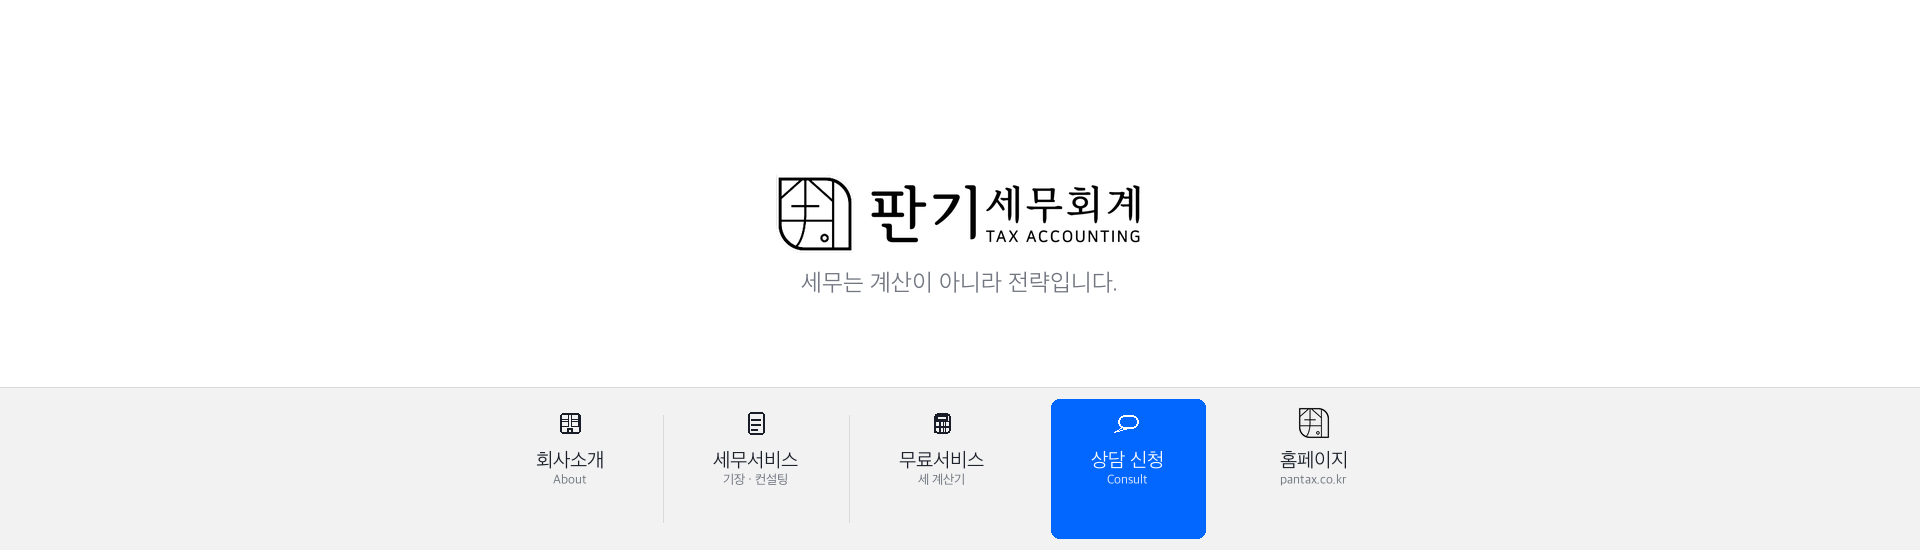
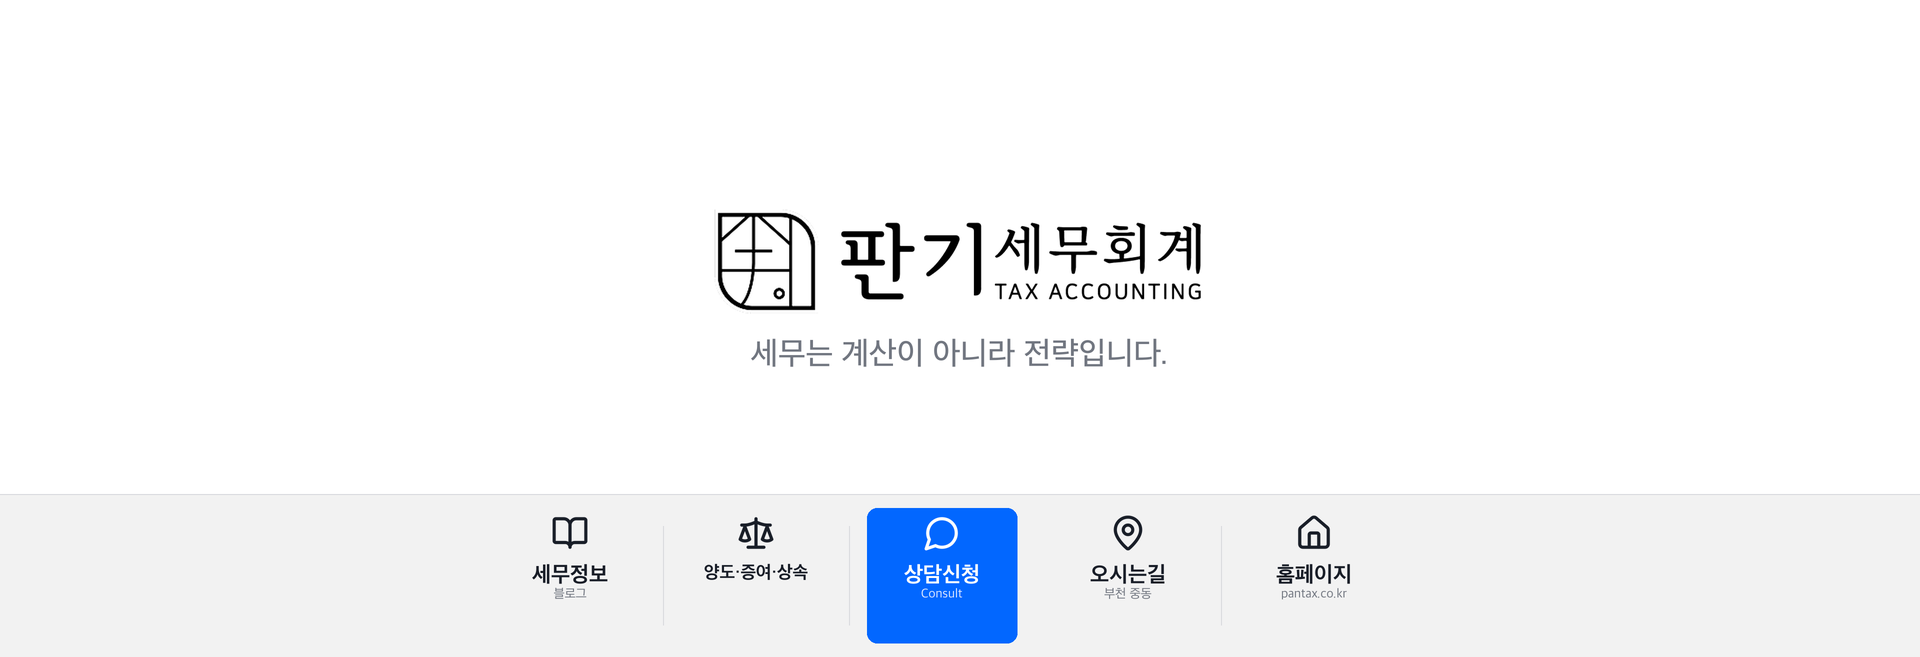
블로그 상단 로고 영역을 키우고, 버튼 다섯 칸을 다시 맞춥니다.

diff --git a/assets/blog/widgets.html b/assets/blog/widgets.html
@@ -1,31 +1,31 @@
-<!-- 레이아웃: 메뉴 → 1 2 3 4 5. 위젯 높이 550. 타이틀 없음. -->
+<!-- 레이아웃: 메뉴 → 1 2 3 4 5. 위젯 높이 657. 타이틀 없음. -->
 
-<!-- 1. 회사소개 -->
-<img src="https://pantax.co.kr/assets/blog/trans-550.png" width="170" height="550" border="0" usemap="#map" alt="회사소개" />
+<!-- 1. 세무정보 -->
+<img src="https://pantax.co.kr/assets/blog/trans-657.png" width="170" height="657" border="0" usemap="#map" alt="세무정보" />
 <map name="map">
-<area shape="rect" coords="2,299,168,462" href="https://pantax.co.kr/about/" target="_top" />
+<area shape="rect" coords="2,406,168,569" href="https://blog.naver.com/pantax_official" target="_top" />
 </map>
 
-<!-- 2. 세무서비스 -->
-<img src="https://pantax.co.kr/assets/blog/trans-550.png" width="170" height="550" border="0" usemap="#map" alt="세무서비스" />
+<!-- 2. 양도·증여·상속 -->
+<img src="https://pantax.co.kr/assets/blog/trans-657.png" width="170" height="657" border="0" usemap="#map" alt="양도·증여·상속" />
 <map name="map">
-<area shape="rect" coords="2,299,168,462" href="https://pantax.co.kr/services/" target="_top" />
+<area shape="rect" coords="2,406,168,569" href="https://pantax.co.kr/tools/" target="_top" />
 </map>
 
-<!-- 3. 무료서비스 -->
-<img src="https://pantax.co.kr/assets/blog/trans-550.png" width="170" height="550" border="0" usemap="#map" alt="무료서비스" />
+<!-- 3. 상담신청 -->
+<img src="https://pantax.co.kr/assets/blog/trans-657.png" width="170" height="657" border="0" usemap="#map" alt="상담신청" />
 <map name="map">
-<area shape="rect" coords="2,299,168,462" href="https://pantax.co.kr/tools/" target="_top" />
+<area shape="rect" coords="2,406,168,569" href="https://pantax.co.kr/consult/" target="_top" />
 </map>
 
-<!-- 4. 상담 신청 -->
-<img src="https://pantax.co.kr/assets/blog/trans-550.png" width="170" height="550" border="0" usemap="#map" alt="상담 신청" />
+<!-- 4. 오시는길 -->
+<img src="https://pantax.co.kr/assets/blog/trans-657.png" width="170" height="657" border="0" usemap="#map" alt="오시는길" />
 <map name="map">
-<area shape="rect" coords="2,299,168,462" href="https://pantax.co.kr/consult/" target="_top" />
+<area shape="rect" coords="2,406,168,569" href="https://pantax.co.kr/about/" target="_top" />
 </map>
 
 <!-- 5. 홈페이지 -->
-<img src="https://pantax.co.kr/assets/blog/trans-550.png" width="170" height="550" border="0" usemap="#map" alt="홈페이지" />
+<img src="https://pantax.co.kr/assets/blog/trans-657.png" width="170" height="657" border="0" usemap="#map" alt="홈페이지" />
 <map name="map">
-<area shape="rect" coords="2,299,168,462" href="https://pantax.co.kr/" target="_top" />
+<area shape="rect" coords="2,406,168,569" href="https://pantax.co.kr/" target="_top" />
 </map>
